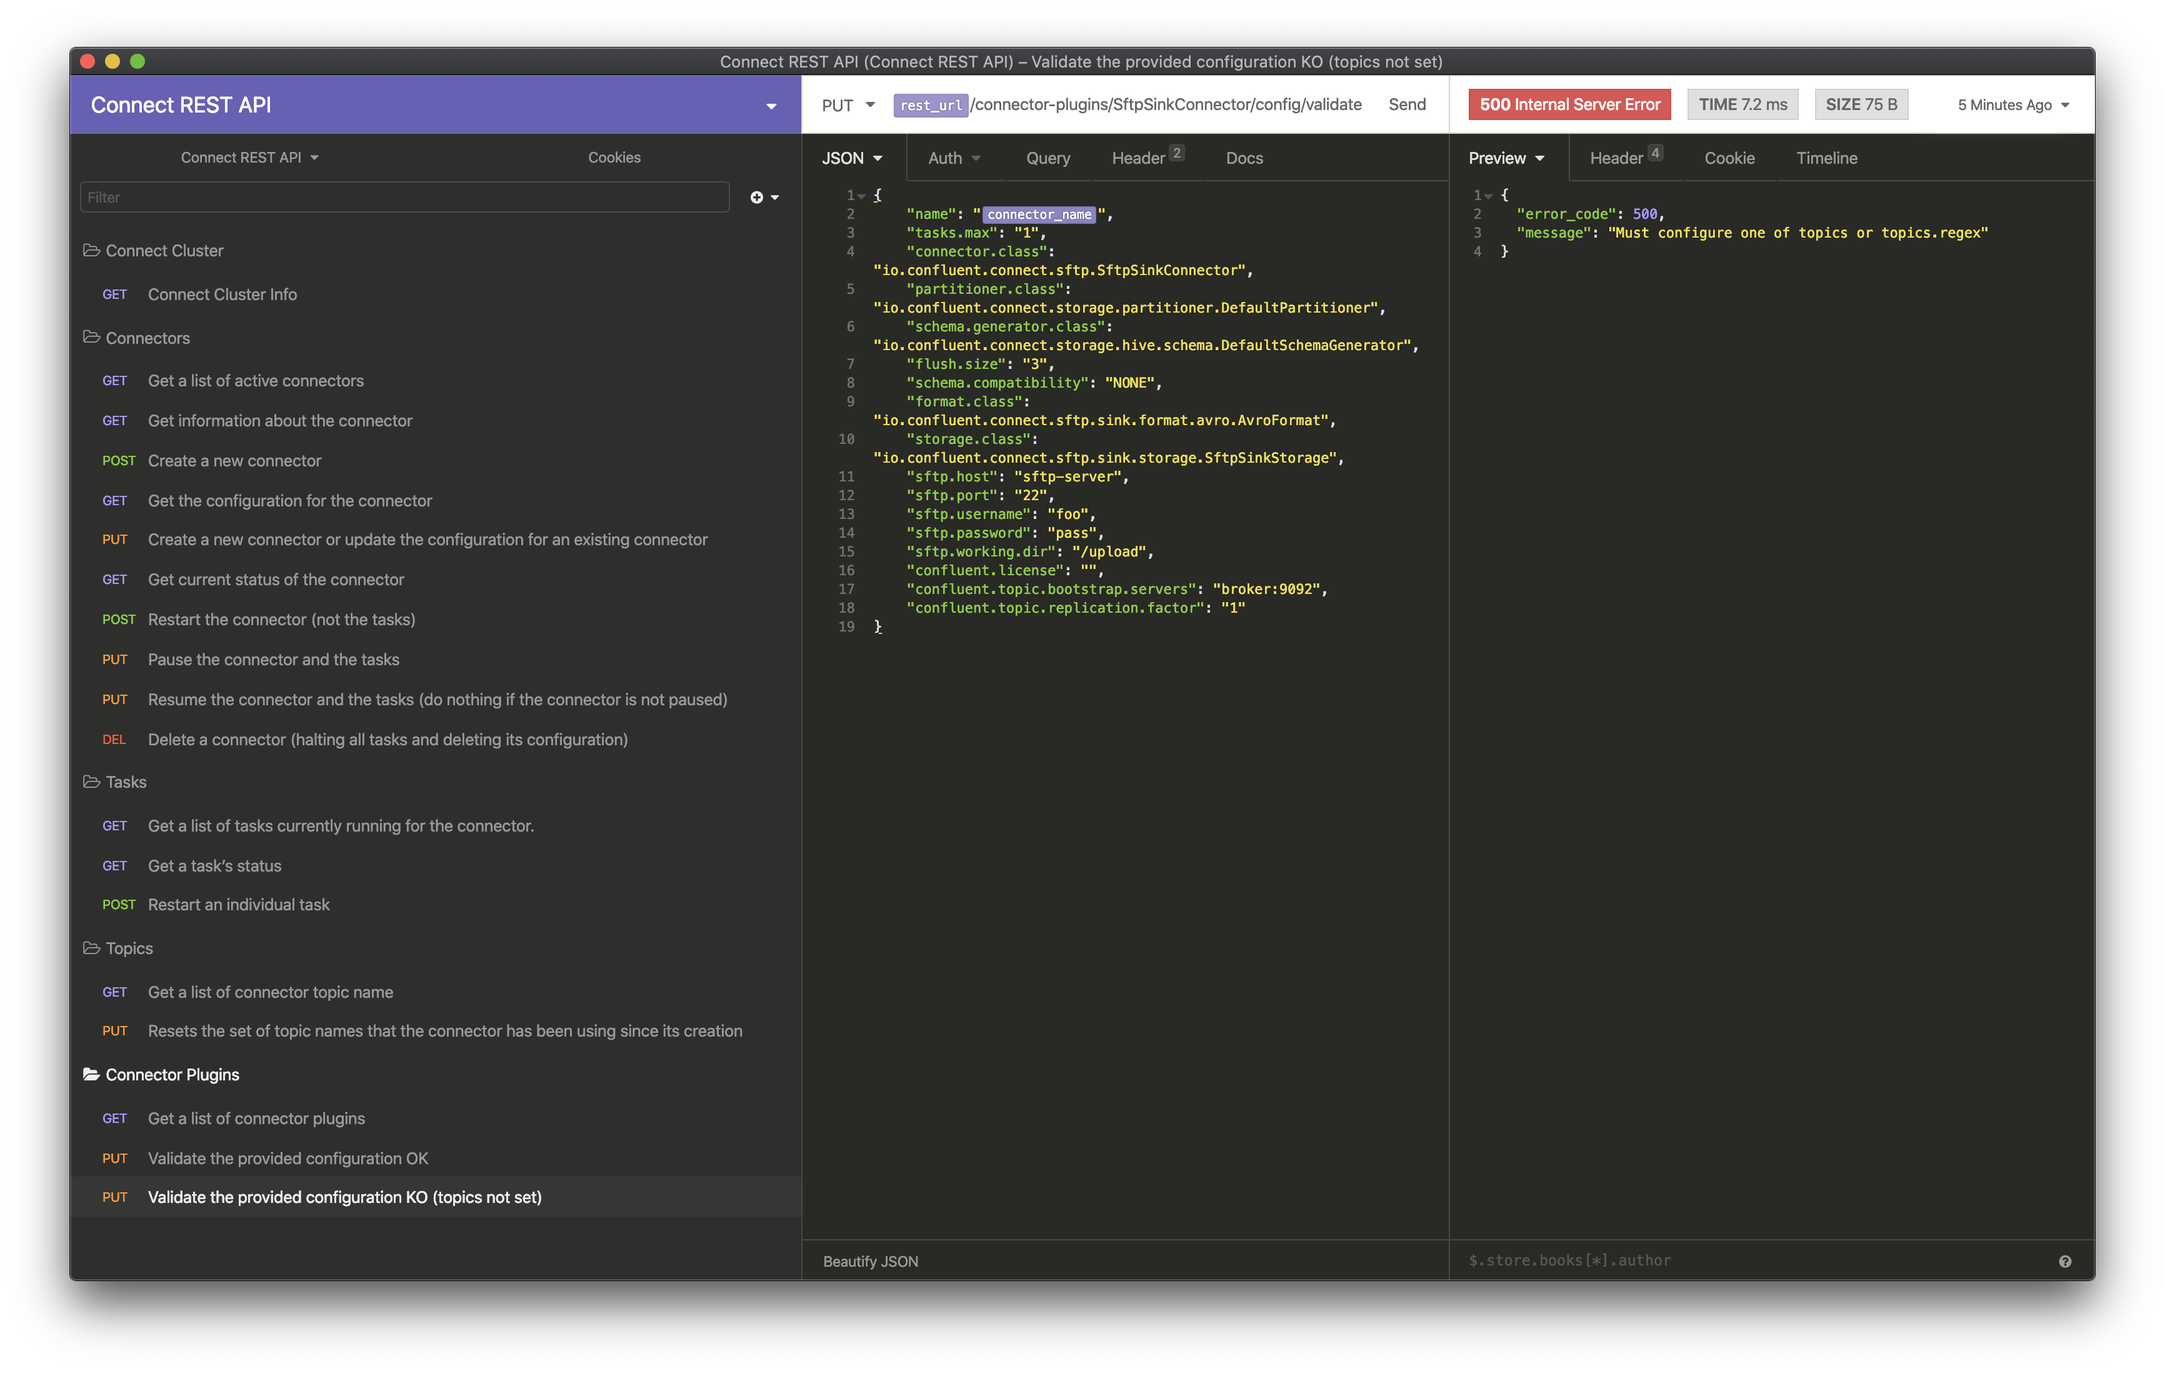
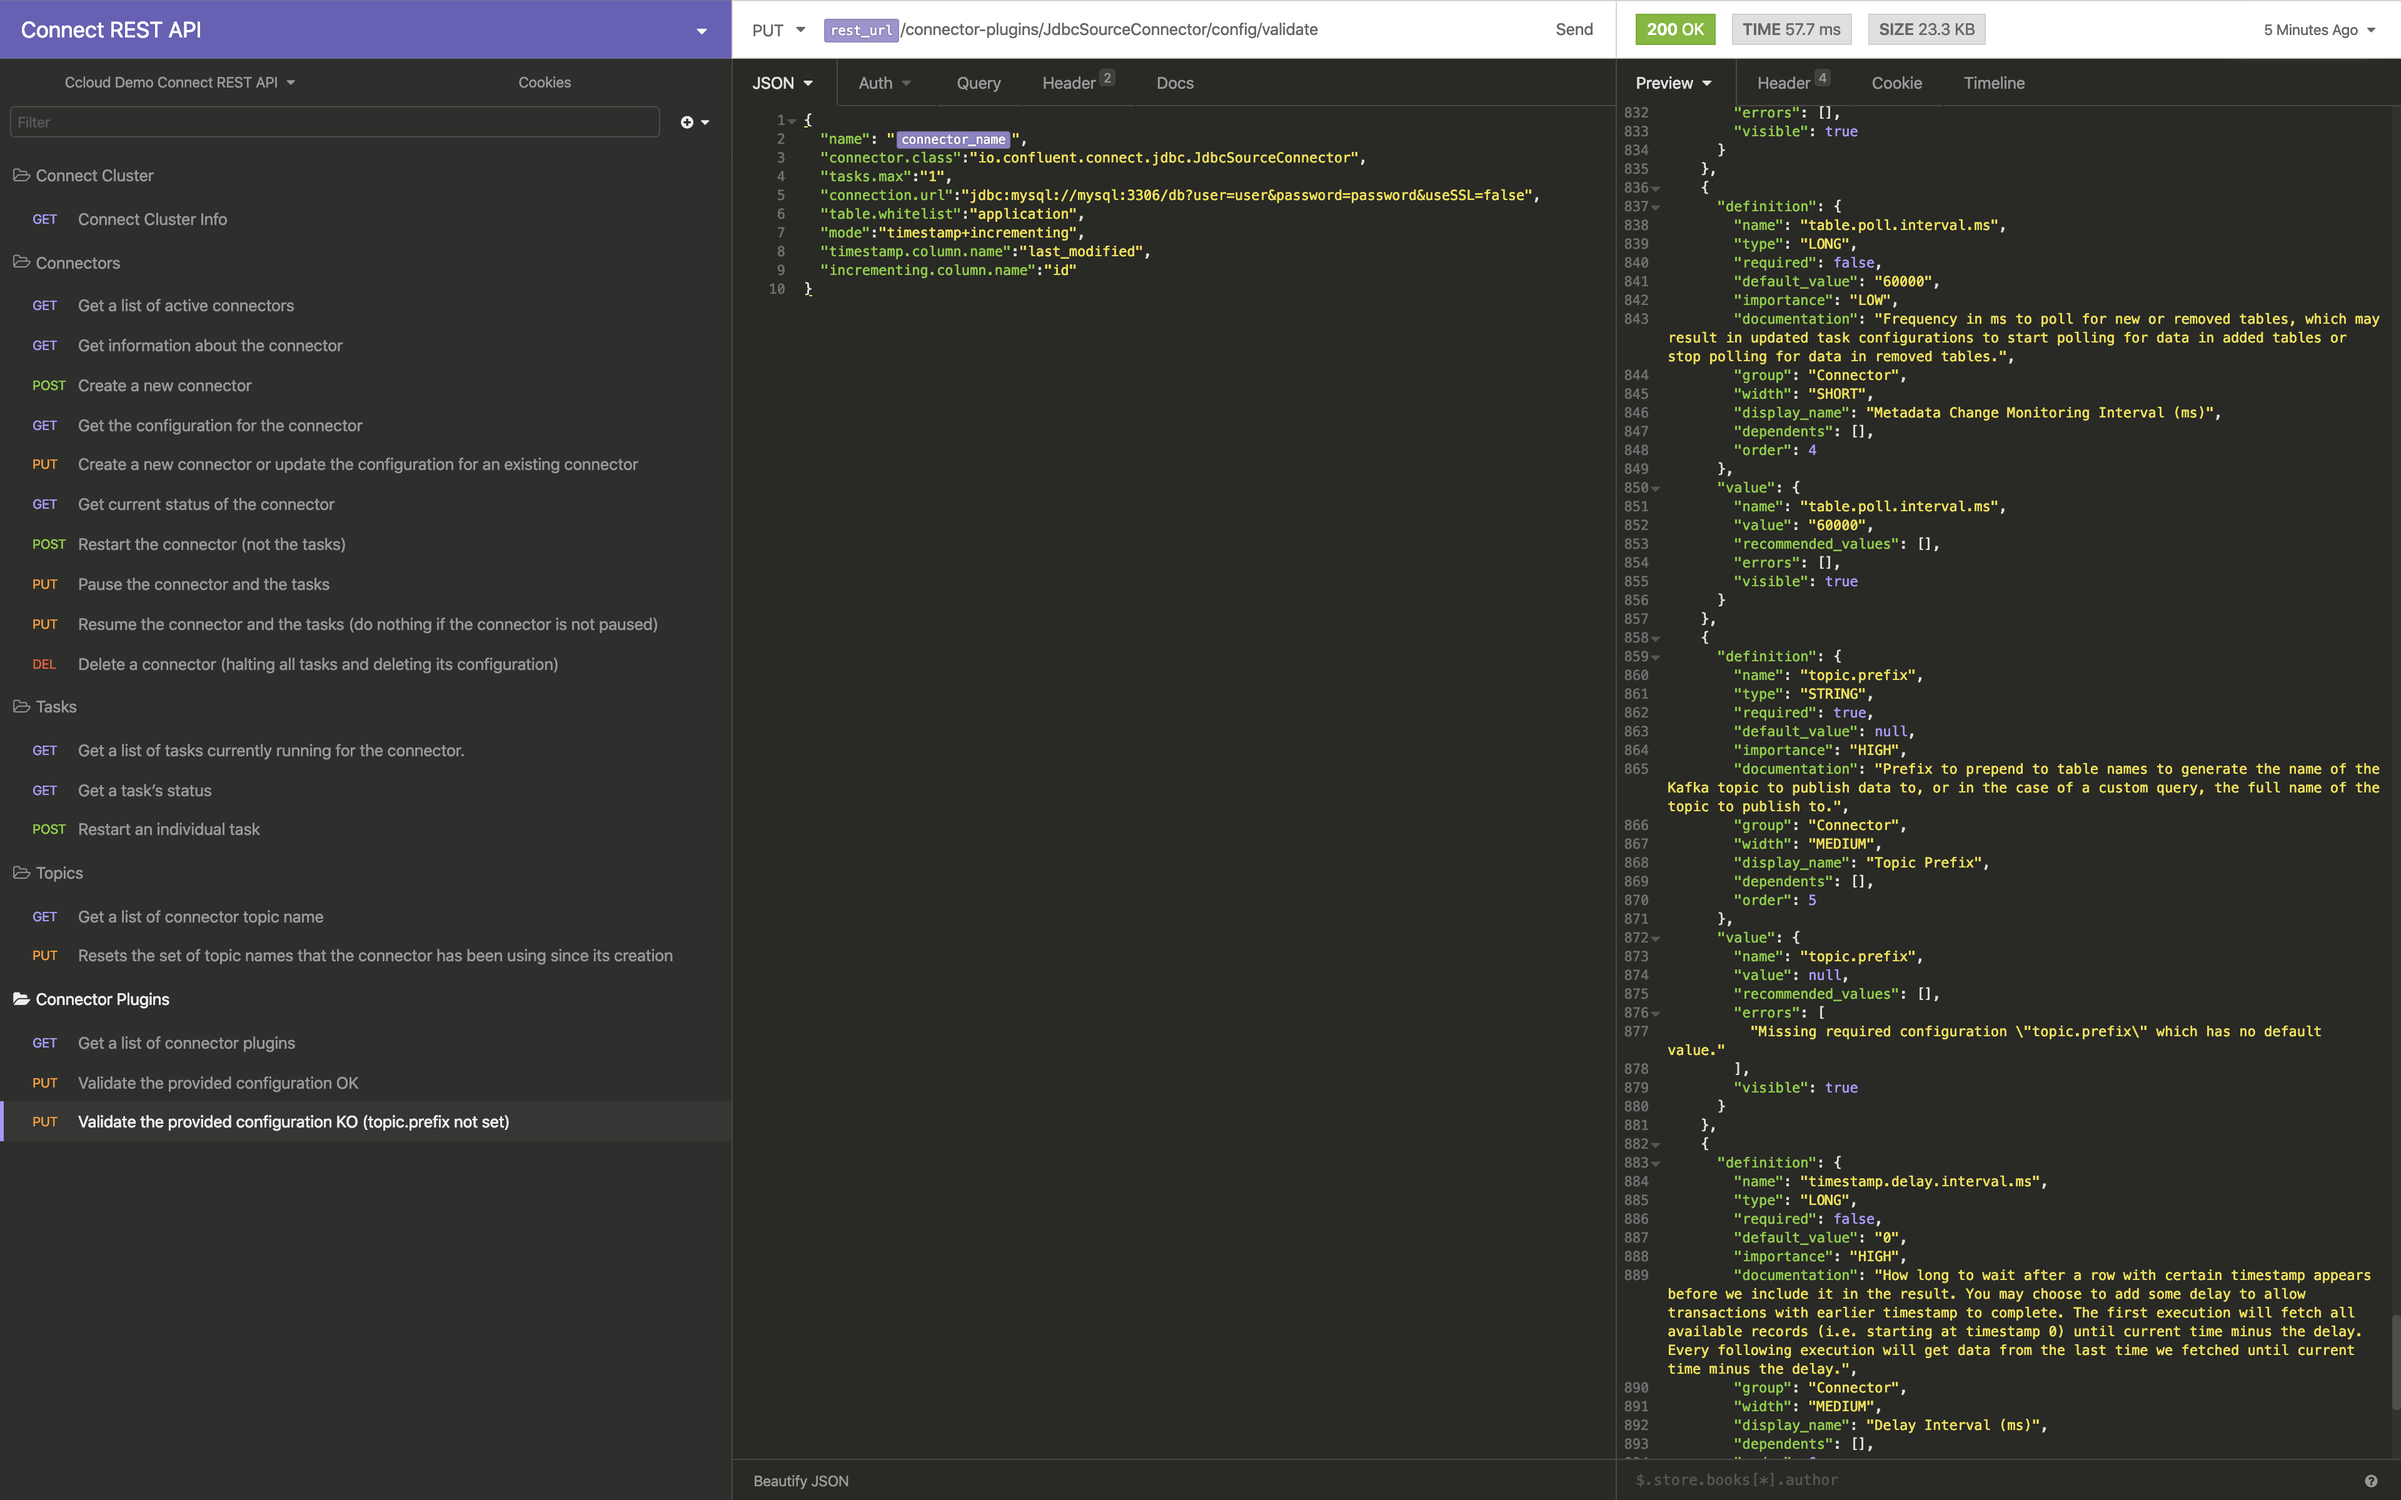
Adapted to ccloud demo

diff --git a/ccloud/ccloud-demo/README.md b/ccloud/ccloud-demo/README.md
@@ -323,7 +323,7 @@ Link to Confluent [documentation](https://docs.confluent.io/current/cloud/connec
 You can use [Connect REST API](https://docs.confluent.io/current/connect/references/restapi.html#kconnect-long-rest-interface) with [insomnia](https://insomnia.rest/) (install it on Mac OS with `brew cask install insomnia`).
 Then go to Preferences->Data and import this [JSON file](insomnia/connect-rest-api.json?raw=true).
 
-You can set variables for your cluster by modifying sub environment called `Connect REST API`:
+You can set variables for your cluster by modifying sub environment called `Ccloud Demo Connect REST API`:
 
 ![Sub environment](./images/Screenshot9.png)
 
